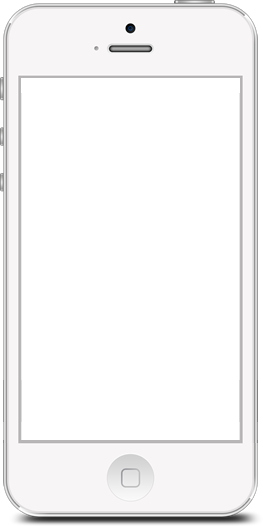
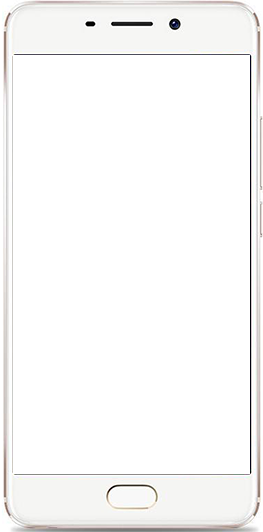
update

Changed region(s): [[0.0, 0.0, 1.0, 1.0]]

diff --git a/src/view/cases.vue b/src/view/cases.vue
@@ -264,8 +264,8 @@ p{
         margin-bottom:0px;
         font-weight:bold;
         background: #B1C07B;
-        height: 90px;
-        line-height: 90px;
+        height: 75px;
+        line-height: 75px;
         border-radius: 10px;
         color: #fff;
         text-align: center;
@@ -279,7 +279,7 @@ p{
             position: relative;
             &:before{
                 content: '';
-                width: 200px;
+                width: 180px;
                 position: absolute;
                 top: 3px;
                 left: -209px;
@@ -297,7 +297,7 @@ p{
             position: relative;
             &:after{
                 content: '';
-                width: 200px;
+                width: 180px;
                 position: absolute;
                 top: 3px;
                 left: 20px;
@@ -317,10 +317,9 @@ p{
     }
     .box-entry{
         color:#2d336a;
-        margin-bottom:10px;
         display: flex;
         align-items: center;
-        height: 80px;
+        height: 70px;
         font-size: 18px;
         .entry-icon{
            display: inline-block;
@@ -358,24 +357,29 @@ p{
     }
     .introduce-title{
         border-bottom: 1px solid #dfd9e7;
+        font-size:15px;
+    }
+    .introduce-content{
+        font-size:14px;
     }
     .box-image{
-        //background: red;
         width: 391px;
-        padding: 130px 26px 0 0;
+    padding: 108px 0px 0 19px;
+
         img{
             float: right;
             display:block;
-            box-shadow: 0px 15px 38px 1px #eee;
+            //box-shadow: 0px 15px 38px 1px #eee;
         }
         .images{
-            width:311px
+            width: 277px
         }
     }
     .box-info{
         flex: 1;
         display: flex;
-        padding-left: 50px;
+        padding-left: 100px;
+        padding-right:100px;
         align-items: center;
         .info{
             //height: 410px;
@@ -387,14 +391,17 @@ p{
         }
     }
     .phone-bg{
-        position: absolute;
-        width: 377px;
-        height: 800px;
-        background: url('../asset/img/cases/phone_ui.png') no-repeat;
-        background-size: 100% 100%;
-        left: 48px;
-        top: 10px;
+            position: absolute;
+            width: 312px;
+            height: 589px;
+            background: url(/img/phone_bg.png) no-repeat;
+            background-size: 100% 100%;
+            left: 114px;
+            top: 72px;
+            z-index: -1;
     }
+
+
 }
 .logos{
     padding:0px;
@@ -499,7 +506,7 @@ p{
     position: absolute;
     top: 50%;
     transform: translateY(-50%);
-    left: 50px;
+    left: 57px;
     width: 65px;
     height: 80px;
     background:rgba(0,0,0,0.1);
@@ -527,7 +534,7 @@ p{
     position: absolute;
     top: 50%;
     transform: translateY(-50%);
-    right: 0px;
+    right: 35px;
     width: 65px;
     height: 80px;
     background:rgba(0,0,0,0.1);
@@ -552,20 +559,18 @@ p{
     };
 }
 .intro-part{
-    display: none;
-    width: 315px;
-    background:rgba(0,0,0,0.5);
+        display: none;
+    width: 275px;
+    background: rgba(0, 0, 0, 0.6);
     position: absolute;
-    bottom: 0;
+    bottom: 165px;
     left: 50%;
+    -webkit-transform: translateX(-50%);
     transform: translateX(-50%);
     z-index: 101;
     padding: 15px;
     height: 176px;
-    //padding-bottom: 25px;
     box-sizing: border-box;
-    border-bottom-left-radius: 46px;
-    border-bottom-right-radius: 46px;
     h2{
         color: #fff;
         font-size: 18px;
@@ -596,24 +601,25 @@ p{
 //swiper
 
 .nut-swiper{
-    height:800px;
+    height:750px;
     border-bottom: 2px solid #eee;
-    padding-bottom: 87px;
+    //padding-bottom: 87px;
 }
 @media (max-width: 450px) {
     .box .box-info{
         display: none;
     }
     .box .phone-bg{
-        width: 325px;
-        height: 620px;
-        top: 5px;
-        left: 50%;
-        transform:translateX(-50%); 
+        width: 302px;
+    height: 561px;
+    top: 10px;
+    left: 50%;
+    -webkit-transform: translateX(-50%);
+    transform: translateX(-50%);
     }
     .box .box-image .images{
-        width: 281px;
-        height: 430px;
+        width: 255px;
+    height: 454px;
     }
     .nut-swiper .nut-swiper-silde{
         display: flex;
@@ -621,12 +627,12 @@ p{
     }
     .box .box-image{
         width: 100%;
-        padding: 95px 0 0 0;
+        padding: 79px 0 0 0;
         display: flex;
         justify-content: center;
     }
     .nut-swiper{
-        height: 580px;
+        height: 660px;
     }
     .next-btn{
         display: none;
@@ -636,6 +642,7 @@ p{
     }
     .intro-part{
         display: block;
+
     }
 }
 </style>

diff --git a/src/app.js b/src/app.js
@@ -35,9 +35,28 @@ var shareOption = {
   title: "NutUI - 基于Vue2.0的移动端开源组件库",
   desc: '一套拥有电商基因的基于Vue2.0的轻量级移动端开源组件库'
 };
+function printJoinUsInfo() {
+var joinUsHtml =  `我不知道你来自哪里？亦不知道你将去何方？
+但当你打开这个页面之时，我知道，
+一定是代码的缘分将你我拉近！
 
+金鳞岂是池中物，一遇风云便化龙。
+少年！我看你骨骼惊奇，一定是敲代码的奇才！
+加入我们，加入JDC-前端开发部！你，必将改变亿万人民的生活！
 
-
+欢迎点击 http://jdc.jd.com ， 或者关注公众号“全栈探索”来了解我们，
+还犹豫什么？欢迎将简历投至： yfzhoutao@jd.com  (请注明来自console)
+我们在这里等你哦！`
+    if (window.console && console.log && navigator.userAgent.toLowerCase().match(/chrome\/([\d.]+)/)) {
+        joinUsHtml = joinUsHtml.replace(/%c/g, '');
+        joinUsHtml = '%c' + joinUsHtml;
+        var weightSize = 'color: #e2231a; font-family: "Microsoft Yahei"';
+        console.log(joinUsHtml, weightSize);
+        //var normalSize = 'color: #666; font-family: "Microsoft Yahei"';
+        //console.log(joinUsHtml, normalSize, weightSize, normalSize, weightSize, normalSize, weightSize);
+    }
+}
+printJoinUsInfo();
 try {
   /*初始化分享*/
   window.share.shareInit(shareOption);
